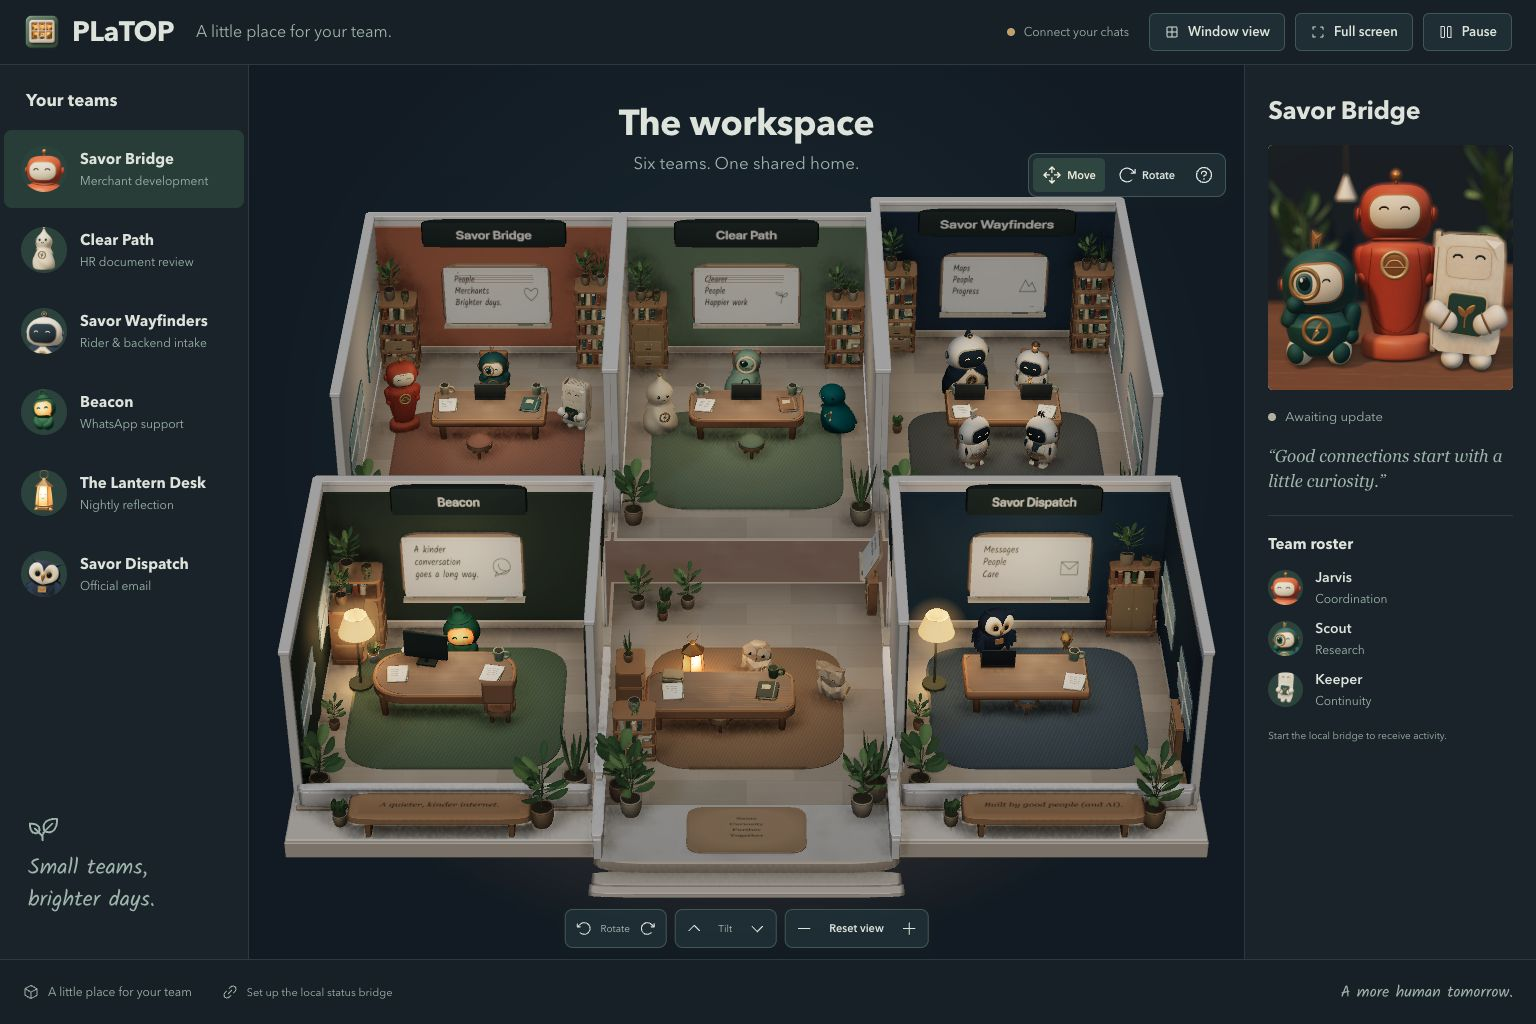
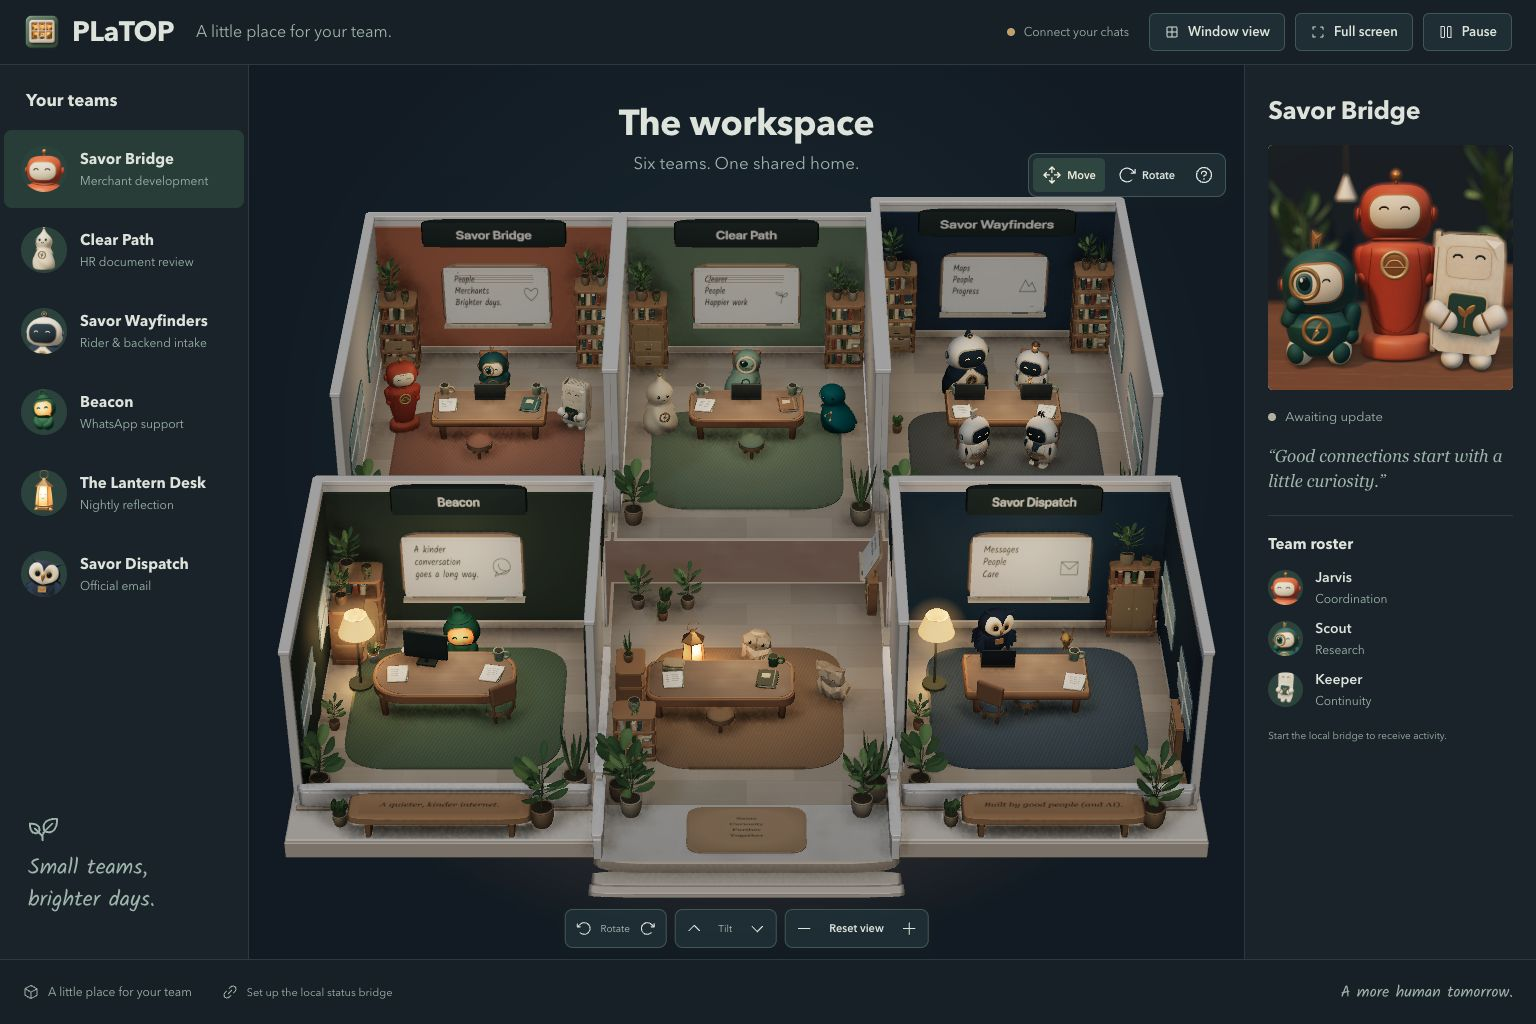
Give lower offices readable guest seating

Changed region(s): [[0.4062, 0.5938, 0.5312, 0.7188], [0.625, 0.6562, 0.6562, 0.7188], [0.3125, 0.6562, 0.3438, 0.7188]]

diff --git a/src/scene/rooms.ts b/src/scene/rooms.ts
@@ -265,16 +265,19 @@ export function makeRoom(team: Team, index: number, kit: SceneKit): Room {
 
   const aisleX = index === 5 ? 1.9225 : 2.15;
   const tableX = isFoyer ? -0.55 : index===3 ? -.25 : index===5 ? -.22 : 0;
-  const tableZ = isFoyer ? 0.7 : index < 3 ? -0.95 : 0.1;
+  const tableZ = isFoyer ? 0.3 : index < 3 ? -0.95 : 0.1;
   const tableWidth = isFoyer ? 3.15 : index===3 ? 3.05 : index === 5 ? 2.65 : 2.75;
   const tableDepth = index===3 ? 1.6 : 1.4;
   const sideSeating = index < 2;
   table(interior, kit, tableX, tableZ, tableWidth, tableDepth,index===3?'capsule':index===1||isFoyer?'soft':'rect');
-  if(index===3){
-    // An empty guest chair makes this a furnished conversation corner. Its
-    // back clears the real table, and the front cross-aisle clears the chair.
-    const guest=chair(interior,kit,.95,tableZ+.72,'#96704e',Math.PI);guest.name='Empty guest chair';
-    blockers.push({bounds:[.59,tableZ+.36,1.31,tableZ+1.08]});
+  if(index===3||index===5){
+    // Angled empty guest seats expose their cushion and legs instead of a
+    // cabinet-like straight back. Their full rotated footprints are obstacles;
+    // the front crossing moves with the furniture, not through its legs.
+    const guestX=index===3?.95:-.95,guestZ=tableZ+.72;
+    const guest=chair(interior,kit,guestX,guestZ,palette.rug,Math.PI+(index===3?.55:-.55));
+    guest.name='Empty guest chair';guest.scale.set(.90,.92,.80);
+    blockers.push({bounds:[guestX-.43,guestZ-.43,guestX+.43,guestZ+.43]});
   }
   if(index<2||isFoyer||index===5){
     // A visible empty seat is furniture, not simulated work. Its actual
@@ -282,14 +285,14 @@ export function makeRoom(team: Team, index: number, kit: SceneKit): Room {
     const spare=new THREE.Group();spare.name='Empty spare stool';
     // Lower-room side doors need the full front cross aisle. Their stools
     // stay under the table; the upper rooms have space for an exposed seat.
-    const tucked=isFoyer||index===5;
-    const spareX=tableX+(index===0?-.18:index===1?.12:0),spareZ=tableZ+(tucked?.41:1.16),spareRadius=tucked?.28:.34;
+    const tucked=index===5;
+    const spareX=tableX+(index===0?-.18:index===1?.12:0),spareZ=tableZ+(isFoyer?.80:tucked?.41:1.16),spareRadius=tucked?.28:.34;
     spare.position.set(spareX,0,spareZ);spare.scale.set(tucked?.8:.9,.92,tucked?.8:.9);interior.add(spare);
     stool(spare,kit,0,0,palette.rug);
     blockers.push({bounds:[spareX-spareRadius,spareZ-spareRadius,spareX+spareRadius,spareZ+spareRadius]});
   }
   blockers.push({ bounds: [tableX - tableWidth / 2, tableZ - tableDepth/2, tableX + tableWidth / 2, tableZ + tableDepth/2] });
-  const seats: NavigationPoint[] = isFoyer ? [[-1.15, -0.7], [0.25, -0.8], [1.85, 0.1]]
+  const seats: NavigationPoint[] = isFoyer ? [[-1.15, -1.1], [0.25, -1.2], [1.85, 0.1]]
     : sideSeating ? [[-2.08, -0.1], [0, -1.5], [2.08, -0.1]] : team.members.length === 1 ? [[0, -1.5]]
     : team.members.length === 2 ? [[-0.8, index === 5 ? -1.7 : -1.5], [0.8, index === 5 ? -1.7 : -1.5]]
       : team.members.length === 4 ? [[-0.8, -1.5], [0.8, -1.5], [-0.8, 1.5], [0.8, 1.5]]
@@ -343,7 +346,7 @@ export function makeRoom(team: Team, index: number, kit: SceneKit): Room {
   blockers.push({ bounds: [-3.2, frontPlantZ - 0.6, -2.0, frontPlantZ + 0.6] },
     { bounds: index===5 ? [2.10,frontPlantZ-.44,3.16,frontPlantZ+.44] : [2.24, frontPlantZ - 0.39, 3.02, frontPlantZ + 0.39] });
   const midPlant: NavigationPoint = isFoyer ? [-1.85, -2.8] : [-2.53, sideSeating ? -2.2 - halfGain - rearExtension : lowerRoom ? 1.1 : -0.85];
-  plant(interior, kit, ...midPlant, 0.54, sideSeating ? 1.48 : 0.1, '#bc976e', index % 2 ? 'leaf' : 'herb');
+  plant(interior, kit, ...midPlant, 0.54, sideSeating ? shelfAsset[1]-.01 : 0.1, '#bc976e', index % 2 ? 'leaf' : 'herb');
   // In the two side-standing rooms this pot is physically supported by the
   // existing shelf and fits its already-blocked envelope, not the walking lane.
   if (!sideSeating) blockers.push({ bounds: [midPlant[0] - 0.27, midPlant[1] - 0.27, midPlant[0] + 0.27, midPlant[1] + 0.27] });
@@ -375,7 +378,7 @@ export function makeRoom(team: Team, index: number, kit: SceneKit): Room {
   tidyStaticMeshes(interior);
   walls.forEach(({ root: wallRoot }) => tidyStaticMeshes(wallRoot));
   const door: NavigationPoint = index < 3 ? [0, 3.65] : isFoyer ? [doorX, backZ] : [index === 3 ? 3 : -3, sideDoorZ];
-  const frontCross = index===3 ? 1.95 : isFoyer || lowerRoom ? tableZ + 1.47 : Math.max(...desks.map(desk => desk.egress[1]), tableZ + (index<2?2.5:2.1));
+  const frontCross = index===3||index===5 ? 2.0 : isFoyer ? 2.19 : lowerRoom ? tableZ + 1.47 : Math.max(...desks.map(desk => desk.egress[1]), tableZ + (index<2?2.5:2.1));
   const rearCross = index === 2 ? backZ + 1.8 : Math.min(...desks.map(desk => desk.egress[1]), tableZ - 2.1);
   // Interaction stops face real props and share the certified walking aisles.
   const cabinetStop: NavigationPoint = isFoyer ? [1.5, -3.4] : index === 5 ? [1.7, 1.8]
@@ -389,7 +392,7 @@ export function makeRoom(team: Team, index: number, kit: SceneKit): Room {
   };
   const navigation: RoomNavigation = { floorY: OFFICE_FLOOR_Y,
     bounds: [-2.9, index < 3 ? backZ + 0.12 : backZ - 1.4, 2.9, index < 3 ? 4.9 : 4.25],
-    blockers, door, lounge: [index===3?-.25:0, isFoyer ? 2.5 : index < 3 ? 2.1 : index===3?1.95:1.7], task: [aisleX, tableZ], interactions,
+    blockers, door, lounge: [index===3?-.25:0, isFoyer ? 2.5 : index < 3 ? 2.1 : index===3||index===5?2.0:1.7], task: [aisleX, tableZ], interactions,
     waypoints: [door, [doorX, backZ + 0.7], [2, backZ + 0.9], [aisleX, backZ + 1.05], [aisleX, rearCross], [aisleX, tableZ - 1.5], [aisleX, tableZ],
       [0, rearCross], ...(!lowerRoom && !isFoyer ? [[-1.15, tableZ - 1.5], [-1.15, rearCross], [1.15, tableZ - 1.5], [1.15, rearCross]] as NavigationPoint[] : []),
       ...(lowerRoom ? [[index === 3 ? 2.15 : -2.15, sideDoorZ], [index === 3 ? 2.15 : -2.15, tableZ - 1.5]] as NavigationPoint[] : []),

diff --git a/docs/AVATAR-SURFACE-REVIEW.md b/docs/AVATAR-SURFACE-REVIEW.md
@@ -59,6 +59,7 @@ not asked for a desired score or instructed to approve.
 | 67 (fresh Reflection review) | Craft 7.0 / fidelity 7.5; retained over 65, unchanged quality tier | Wrapped and tapered chest restores volume, with closer wings; triangular patchwork, solid thickness and weak lantern spill remain |
 | 68 (fresh Reflection review) | Craft 7.5 / fidelity 7.5; retained lighting improvement | Warm spill now models inner cheeks, folds and tabletop; avoid further intensity increases, as the central pane approaches white |
 | 69 (fresh campus review) | Craft 7.0 / fidelity 7.5; retained modest staging improvement | Taller real shelf tiers balance upper rooms; repeated storage and sparse lower-room desk/seating relationships remain |
+| 70 (fresh campus review) | Craft 7.0 / fidelity 7.5; retained seating improvement | Angled guest chairs and visible foyer stool clarify use; evenly smooth material response and broad empty rug remain |
 
 Passes not listed were internal corrective iterations, not independent approvals.
 Pass 17 keeps pass 16's visible forms while reducing five-sided botanical stems
@@ -90,6 +91,14 @@ top planks. Floor footprints, contacts and walking lanes are unchanged; all
 sixteen real-layout routes pass with decorations on and off. Agent decoration
 anchors follow the physical top surfaces. The campus reviewer retains this
 pass but leaves both scores unchanged, prioritizing desk/seating composition.
+
+Pass 70: 307 tests and the production build pass. Beacon's angled empty chair,
+Dispatch's new guest chair and the visible Lantern Desk stool are real static
+furnishings, not implied agent activity. Their rotated bounds and adjusted front
+crossings pass all sixteen routes, including optional decorations. The foyer's
+rear homes move with its table and remain floor-height. Two side-standing rooms'
+extra plants now sit on their updated shelf top. The reviewer retains the change
+at the same scores and prioritizes material depth over another seating addition.
 
 The fresh pass-60 reviewer was not shown prior scores, target scores or ledgers.
 It viewed the campus concept, all six chosen identity portraits, two campus
@@ -440,6 +449,7 @@ and is not treated as close-up evidence.
 | Pass 67 campus | 54.20 | 2.08 / 4.10 ms | 110 / 354,155 | 0 |
 | Pass 68 campus | 53.31 | 2.31 / 4.10 ms | 110 / 354,155 | 0 |
 | Pass 69 campus | 52.61 | 2.25 / 4.20 ms | 110 / 370,367 | 0 |
+| Pass 70 campus | 50.00 | 2.25 / 3.90 ms | 109 / 372,303 | 0 |
 | Baseline full-face close | 45.29 | 2.61 / 3.40 ms | 46 / 303,944 | 0 |
 | Pass 14 full-face close | 50.99 | 2.50 / 4.10 ms | 147 / 2,413,677 | 3 |
 | Pass 17 full-face close | 48.99 | 2.54 / 4.20 ms | 147 / 2,417,249 | 3 |
@@ -520,6 +530,10 @@ Pass 68 Lantern Desk submitted 53.10 fps / 2.11 ms mean / 4.00 ms p95 at noon
 and 54.40 fps / 1.98 ms / 4.00 ms at night. Both retained three dense avatars,
 123 draws and 818,968 triangles. These bounded samples do not establish unchanged
 worst-case GPU completion time.
+Pass 70 Lantern Desk submitted 52.90 fps / 1.96 ms mean / 3.80 ms p95, with
+three dense avatars, 123 draws and 837,636 triangles. Its camera workload uses
+the same room-grid offset, while the real table and homes moved rearward by
+0.4 units. That is a changed layout, not an exact pixel-matched close comparison.
 
 These samples remain in the earlier performance range, but do not prove a speed
 increase or an unchanged worst case. The dense tier is deliberately not used for

diff --git a/design-qa.md b/design-qa.md
@@ -19,7 +19,7 @@ same model surfaces. Folded paper depth, feather winding, inset eye sockets,
 cape lining, Beacon's handle, rounded face aperture, foliage and wood finishes
 have been refined. No fake activity or observer authority was introduced.
 
-The pass-69 suite passes **306 tests** and the production build passes. The
+The pass-70 suite passes **307 tests** and the production build passes. The
 existing bundle-size warning remains. Pass 49's matched full-face camera check
 measured 56.00 submitted scene fps with three dense avatars versus 45.29 baseline; these
 are variable same-machine samples, not a GPU-completion or locked-frame-rate
@@ -43,7 +43,7 @@ The targeted campus review remains **8.2/10**, with chair readability and hidden
 storage limiting the improvement. Pass 58's matched
 [noon](docs/images/surface-campus-noon.jpg) and
 [night](docs/images/surface-campus-night.jpg) capture locations now contain pass
-69, superseding the older campus evidence below.
+70, superseding the older campus evidence below.
 Live agent actions remain the only source of work gestures and locomotion.
 
 Pass 62 strengthens existing contact shading and lamp pools without adding
@@ -67,6 +67,10 @@ campus review retains the change at **7.0 craft / 7.5 fidelity**, identifying
 lower-room seating and repeated storage as the largest staging gaps. Matching
 campus and Merchant close samples submit 52.61 and 53.20 fps, with unchanged
 draw counts but approximately 16,000 additional static triangles.
+Pass 70 adds angled guest seating and exposes the Lantern Desk stool, with
+full physical footprint and route checks. Campus craft/fidelity remain
+**7.0 / 7.5**; the reviewer now prioritizes material depth. Campus and Reflection
+close samples submit 50.00 and 52.90 fps. A-level acceptance remains open.
 
 ## Earlier checkpoint evidence
 
